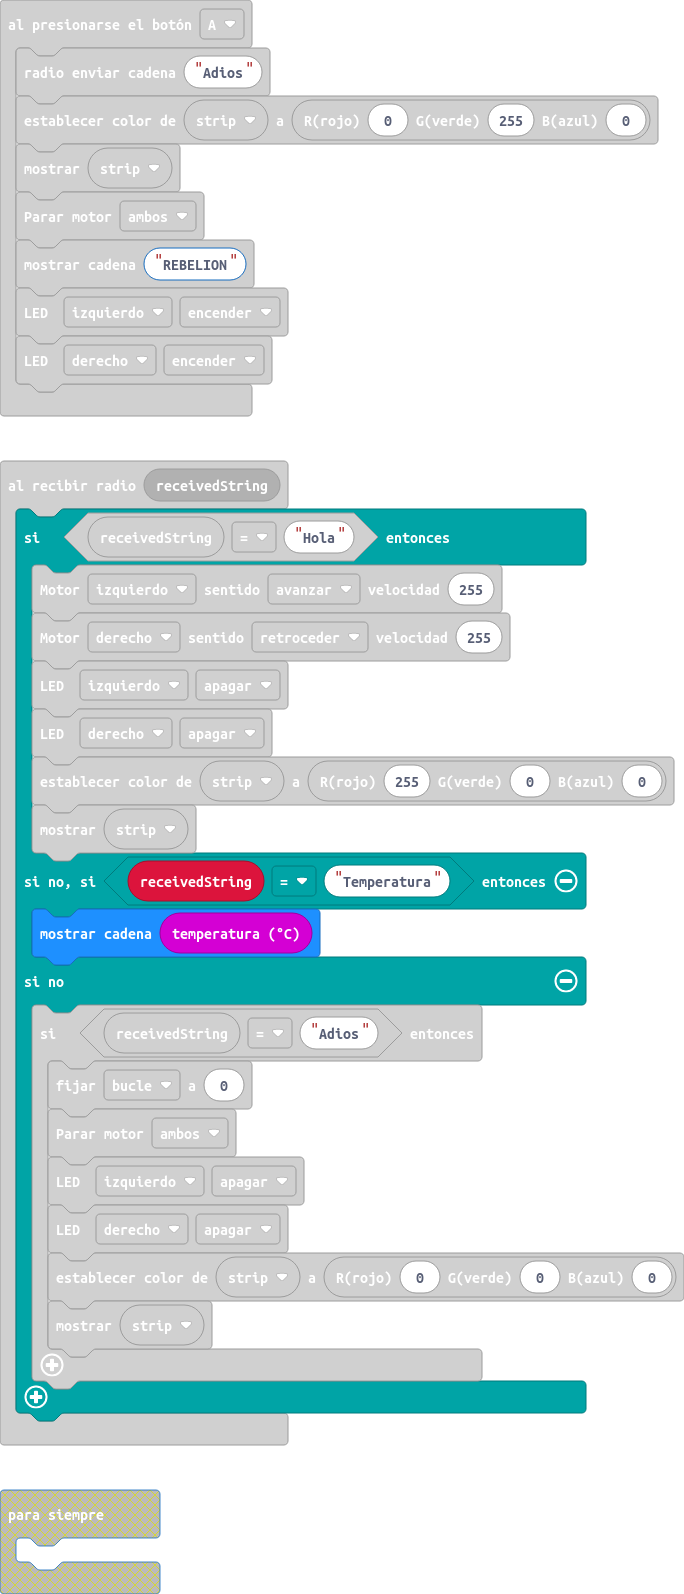
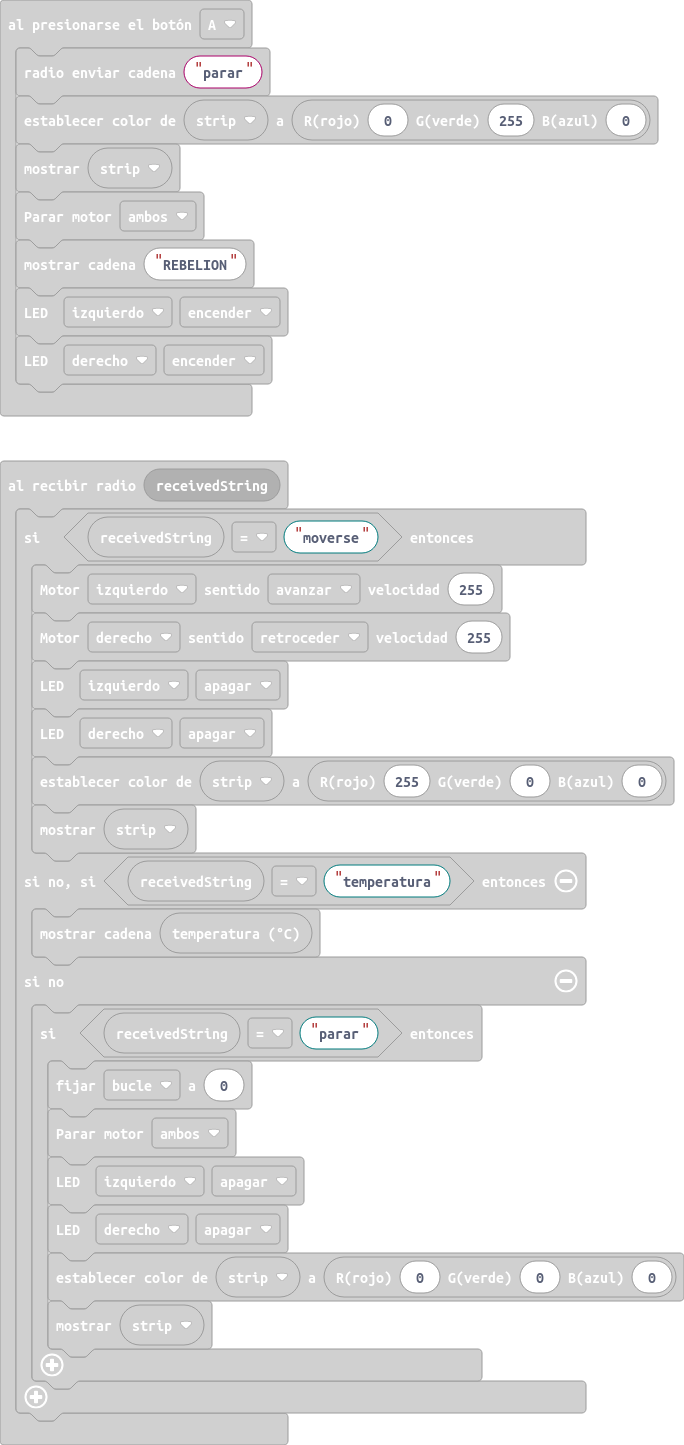
Actualizar main.blocks, main.ts, main.py

diff --git a/main.ts b/main.ts
@@ -1,5 +1,5 @@
 input.onButtonPressed(Button.A, function () {
-    radio.sendString("Adios")
+    radio.sendString("parar")
     strip.showColor(neopixel.rgb(0, 255, 0))
     strip.show()
     maqueen.motorStop(maqueen.Motors.All)
@@ -8,17 +8,17 @@ input.onButtonPressed(Button.A, function () {
     maqueen.writeLED(maqueen.LED.LEDRight, maqueen.LEDswitch.turnOn)
 })
 radio.onReceivedString(function (receivedString) {
-    if (receivedString == "Hola") {
+    if (receivedString == "moverse") {
         maqueen.motorRun(maqueen.Motors.M1, maqueen.Dir.CW, 255)
         maqueen.motorRun(maqueen.Motors.M2, maqueen.Dir.CCW, 255)
         maqueen.writeLED(maqueen.LED.LEDLeft, maqueen.LEDswitch.turnOff)
         maqueen.writeLED(maqueen.LED.LEDRight, maqueen.LEDswitch.turnOff)
         strip.showColor(neopixel.rgb(255, 0, 0))
         strip.show()
-    } else if (receivedString == "Temperatura") {
+    } else if (receivedString == "temperatura") {
         basic.showString("" + (input.temperature()))
     } else {
-        if (receivedString == "Adios") {
+        if (receivedString == "parar") {
             bucle = 0
             maqueen.motorStop(maqueen.Motors.All)
             maqueen.writeLED(maqueen.LED.LEDLeft, maqueen.LEDswitch.turnOff)

diff --git a/main.py b/main.py
@@ -1,21 +1,37 @@
-def on_received_number(receivedNumber):
-    pass
-radio.on_received_number(on_received_number)
-
 def on_button_pressed_a():
-    maqueen.motor_run(maqueen.Motors.M1, maqueen.Dir.CW, 255)
-    maqueen.motor_run(maqueen.Motors.M2, maqueen.Dir.CCW, 255)
+    radio.send_string("Adios")
+    strip.show_color(neopixel.rgb(0, 255, 0))
+    strip.show()
+    maqueen.motor_stop(maqueen.Motors.ALL)
+    basic.show_string("REBELION")
+    maqueen.write_led(maqueen.LED.LED_LEFT, maqueen.LEDswitch.TURN_ON)
+    maqueen.write_led(maqueen.LED.LED_RIGHT, maqueen.LEDswitch.TURN_ON)
 input.on_button_pressed(Button.A, on_button_pressed_a)
 
-def on_button_pressed_b():
-    maqueen.motor_run(maqueen.Motors.M1, maqueen.Dir.CW, 0)
-    maqueen.motor_run(maqueen.Motors.M2, maqueen.Dir.CCW, 0)
-input.on_button_pressed(Button.B, on_button_pressed_b)
+def on_received_string(receivedString):
+    global bucle
+    if receivedString == "Hola":
+        maqueen.motor_run(maqueen.Motors.M1, maqueen.Dir.CW, 255)
+        maqueen.motor_run(maqueen.Motors.M2, maqueen.Dir.CCW, 255)
+        maqueen.write_led(maqueen.LED.LED_LEFT, maqueen.LEDswitch.TURN_OFF)
+        maqueen.write_led(maqueen.LED.LED_RIGHT, maqueen.LEDswitch.TURN_OFF)
+        strip.show_color(neopixel.rgb(255, 0, 0))
+        strip.show()
+    elif receivedString == "Temperatura":
+        basic.show_string("" + str((input.temperature())))
+    else:
+        if receivedString == "Adios":
+            bucle = 0
+            maqueen.motor_stop(maqueen.Motors.ALL)
+            maqueen.write_led(maqueen.LED.LED_LEFT, maqueen.LEDswitch.TURN_OFF)
+            maqueen.write_led(maqueen.LED.LED_RIGHT, maqueen.LEDswitch.TURN_OFF)
+            strip.show_color(neopixel.rgb(0, 0, 0))
+            strip.show()
+radio.on_received_string(on_received_string)
 
+bucle = 0
+strip: neopixel.Strip = None
 strip = neopixel.create(DigitalPin.P15, 4, NeoPixelMode.RGB)
 radio.set_group(35)
-
-def on_forever():
-    strip.show_color(neopixel.rgb(randint(0, 255), randint(0, 255), randint(0, 255)))
-    strip.show()
-basic.forever(on_forever)
+color = 0
+bucle = 0
